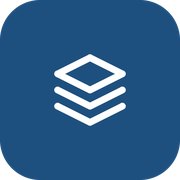
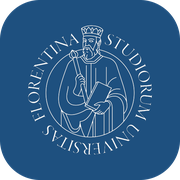
changes

Changed region(s): [[0.1389, 0.1389, 0.8611, 0.8611]]

diff --git a/styles.css b/styles.css
@@ -120,16 +120,19 @@ body.dragging-active {
 }
 
 .logo-icon {
-  width: 46px;
-  height: 46px;
-  background: var(--primary-deep);
-  border-radius: var(--radius-md);
+  width: 52px;
+  height: 52px;
   display: flex;
   align-items: center;
   justify-content: center;
-  color: #ffffff;
-  box-shadow: 0 8px 20px -4px rgba(30, 80, 127, 0.35);
   flex-shrink: 0;
+}
+
+.logo-icon img {
+  width: 100%;
+  height: 100%;
+  object-fit: contain;
+  display: block;
 }
 
 .brand-title {
@@ -290,11 +293,14 @@ body.dragging-active {
   --accent-rgb: 30, 80, 127;
 
   position: relative;
+  /* Lo sfondo prende il colore del progetto, ma molto piu tenue della striscia
+     e del bordo: quelli sono il colore pieno, questo e una velatura al 14%.
+     Deve far capire a colpo d'occhio a quale progetto appartiene una scheda
+     senza competere con le tinte delle task che ci stanno dentro. */
   background-color: var(--bg-card);
   background-image: linear-gradient(
-    to bottom,
-    rgba(var(--accent-rgb), 0.07),
-    rgba(var(--accent-rgb), 0.015) 160px
+    rgba(var(--accent-rgb), 0.14),
+    rgba(var(--accent-rgb), 0.14)
   );
   backdrop-filter: blur(16px);
   -webkit-backdrop-filter: blur(16px);
@@ -600,7 +606,7 @@ body.dragging-active {
    TASK DIRETTE DI PROGETTO
    ========================================================================== */
 .project-direct-tasks {
-  background: rgba(255, 255, 255, 0.55);
+  background: rgba(255, 255, 255, 0.6);
   border: 1px dashed rgba(var(--accent-rgb), 0.3);
   border-radius: var(--radius-md);
   padding: 14px;
@@ -812,7 +818,7 @@ body.dragging-active {
   font-family: var(--font-unified) !important;
   display: flex;
   align-items: center;
-  gap: 6px;
+  letter-spacing: 0.01em;
   font-size: 0.78rem;
   font-weight: 600;
   color: var(--text-muted);
@@ -1265,9 +1271,9 @@ body.dragging-active {
 }
 
 .auth-logo {
-  width: 54px;
-  height: 54px;
-  margin-bottom: 6px;
+  width: 64px;
+  height: 64px;
+  margin-bottom: 10px;
 }
 
 .auth-title {

diff --git a/index.html b/index.html
@@ -26,11 +26,7 @@
   <div id="auth-gate" class="auth-gate hidden" role="dialog" aria-modal="true" aria-labelledby="auth-title">
     <div class="auth-card">
       <div class="logo-icon auth-logo">
-        <svg width="28" height="28" viewBox="0 0 24 24" fill="none" stroke="currentColor" stroke-width="2.2" stroke-linecap="round" stroke-linejoin="round" aria-hidden="true">
-          <polygon points="12 2 2 7 12 12 22 7 12 2"></polygon>
-          <polyline points="2 17 12 22 22 17"></polyline>
-          <polyline points="2 12 12 17 22 12"></polyline>
-        </svg>
+        <img src="logo-unifi-blu.png" alt="" width="64" height="64">
       </div>
       <h1 id="auth-title" class="auth-title">TODO UNIFI</h1>
 
@@ -52,11 +48,7 @@
     <header class="main-header">
       <div class="brand-container">
         <div class="logo-icon">
-          <svg width="26" height="26" viewBox="0 0 24 24" fill="none" stroke="currentColor" stroke-width="2.2" stroke-linecap="round" stroke-linejoin="round" aria-hidden="true">
-            <polygon points="12 2 2 7 12 12 22 7 12 2"></polygon>
-            <polyline points="2 17 12 22 22 17"></polyline>
-            <polyline points="2 12 12 17 22 12"></polyline>
-          </svg>
+          <img src="logo-unifi-blu.png" alt="" width="52" height="52">
         </div>
         <div>
           <h1 class="brand-title">TODO UNIFI</h1>

diff --git a/sw.js b/sw.js
@@ -12,7 +12,7 @@
  * il classico "ho aggiornato ma non cambia niente".
  */
 
-const CACHE = 'todo-unifi-v1';
+const CACHE = 'todo-unifi-v3';
 
 const FILE_BASE = [
   './',
@@ -22,7 +22,9 @@ const FILE_BASE = [
   './manifest.json',
   './icon-192.png',
   './icon-512.png',
-  './apple-touch-icon.png'
+  './apple-touch-icon.png',
+  './logo-unifi.png',
+  './logo-unifi-blu.png'
 ];
 
 self.addEventListener('install', (event) => {
@@ -55,8 +57,17 @@ self.addEventListener('fetch', (event) => {
   // mettiamo in cache, altrimenti rischieremmo di servire dati vecchi.
   if (url.origin !== self.location.origin) return;
 
+  /*
+   * cache: 'no-cache' obbliga il browser a ricontrollare il file col server
+   * invece di riusare quello che ha gia in memoria. Serve perche GitHub Pages
+   * dice ai browser "tieniti questo file per 10 minuti": senza questa riga,
+   * dopo aver pubblicato una modifica si continuerebbe a vedere la versione
+   * vecchia per un quarto d'ora buono, pur essendo online. Non scarica tutto
+   * ogni volta: se il file non e cambiato il server risponde "uguale a prima"
+   * e non ritrasmette niente.
+   */
   event.respondWith(
-    fetch(req)
+    fetch(req.url, { cache: 'no-cache', credentials: 'same-origin' })
       .then((res) => {
         if (res && res.ok) {
           const copia = res.clone();

diff --git a/app.js b/app.js
@@ -1116,7 +1116,7 @@ const FIREBASE_SDK_VERSIONS = ['12.19.0', '11.10.0', '10.14.1'];
     badge.type = 'button';
     badge.className = 'task-badge-priority editable';
     badge.title = 'Clicca per cambiare priorità';
-    badge.innerHTML = '<span class="priority-dot ' + meta.class + '"></span><span>' + meta.name + '</span>';
+    badge.textContent = meta.name;
     badge.addEventListener('click', () =>
       startPriorityEdit(badge, task, (v) => setTaskPriority(projectId, activityId, task.id, v))
     );

diff --git a/README.md b/README.md
@@ -20,12 +20,23 @@ così com'è, e da lì si installa come app su iPhone, Mac e Android.
 |---|---|
 | Rinominare un progetto, un'attività o una task | Clicca sul testo, scrivi, premi **Invio**. **Esc** annulla. |
 | Cambiare priorità a una task | Clicca sull'etichetta della priorità e scegli dal menu. |
+| Cambiare colore a un progetto | Clicca il pallino colorato nell'intestazione della scheda e scegli fra otto tinte. |
 | Riordinare progetti e attività | Trascina dalla **maniglia a puntini**. Funziona anche col dito su telefono e tablet. |
 | Recuperare una task spuntata per sbaglio | Togli la spunta entro 5 secondi: la barra rossa è il countdown. |
 | Backup | Pulsante **Dati** -> Scarica backup / Importa. |
 
 Le task sono sempre ordinate per priorità decrescente. Un'attività può essere riordinata
 solo dentro il proprio progetto.
+
+Ogni task è tinta del colore della propria priorità (viola estrema, rosso alta, ambra media,
+verde bassa, grigio in attesa), così il livello si riconosce con un'occhiata senza leggere
+l'etichetta. La velatura è al 12%: abbastanza da distinguere i livelli da lontano, abbastanza
+leggera da non intaccare la leggibilità del testo. Una task spuntata perde la tinta e diventa
+grigia, perché deve leggersi come "fatta" e non come "ancora urgente".
+
+Il colore di un progetto è salvato nei dati come nome ('verde'), non come codice colore: così
+la tavolozza si può ritoccare in futuro senza toccare i progetti già creati. I nuovi progetti
+ricevono in automatico il colore meno usato, per non ritrovarsi tutte le schede uguali.
 
 ---
 
@@ -219,7 +230,7 @@ workspaces/<workspaceKey>/
   updatedAt: <timestamp>
   projects/
     <projectId>/
-      id, name, order
+      id, name, color, order
       tasks/<taskId>/       -> id, name, priority (1-5), completed, createdAt
       activities/<activityId>/
         id, name, order
@@ -242,7 +253,9 @@ automatico al primo avvio.
 | `app.js` | Logica, sincronizzazione, accesso, drag & drop, editing inline |
 | `manifest.json` | Scheda d'identità dell'app installata (nome, icone, colori) |
 | `sw.js` | Service worker: apertura senza rete e aggiornamenti |
-| `icon-*.png`, `apple-touch-icon.png` | Icone dell'app installata |
+| `icon-*.png`, `apple-touch-icon.png` | Icone dell'app installata (sigillo bianco su fondo blu) |
+| `logo-unifi-blu.png` | Sigillo in blu, per l'intestazione e la schermata di accesso |
+| `logo-unifi.png` | Sigillo in bianco, per i fondi scuri |
 
 ## Compatibilità
 
